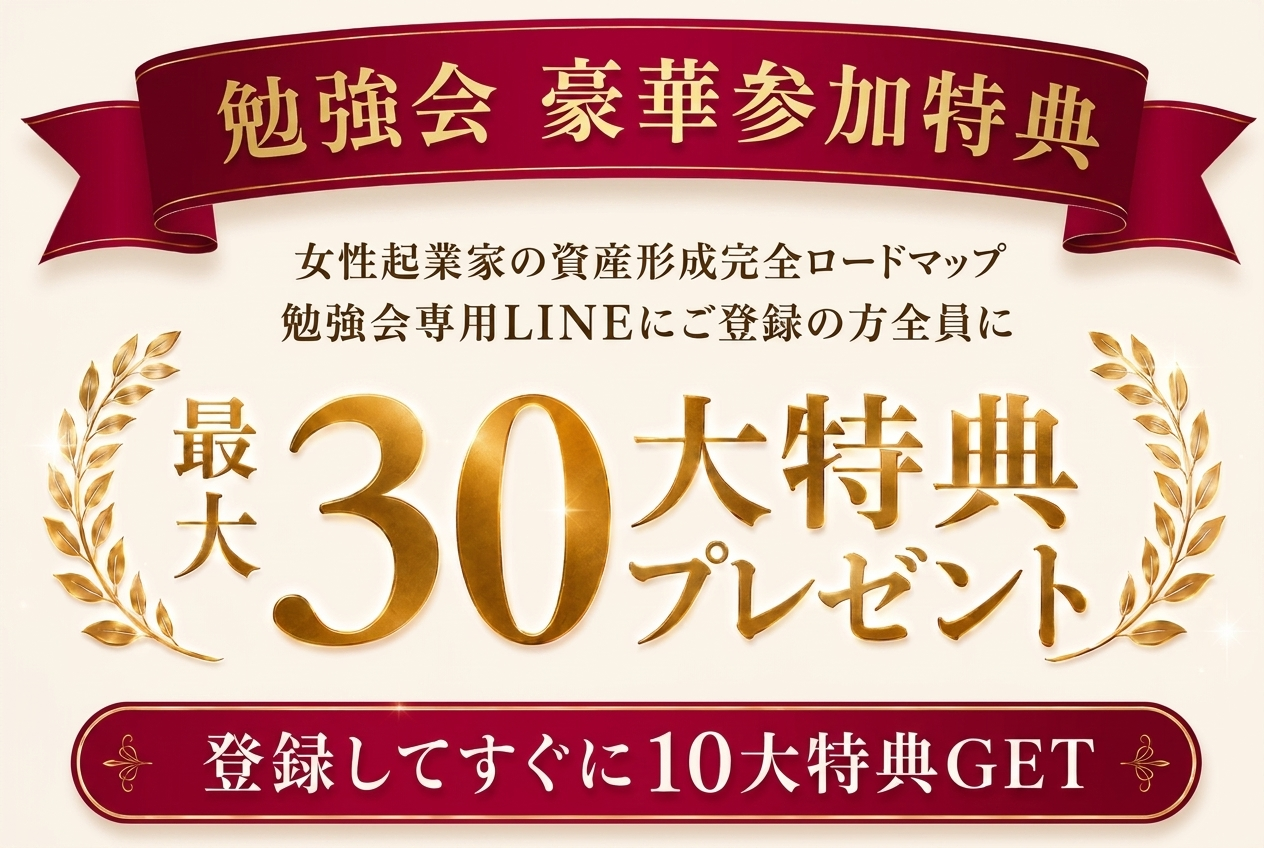
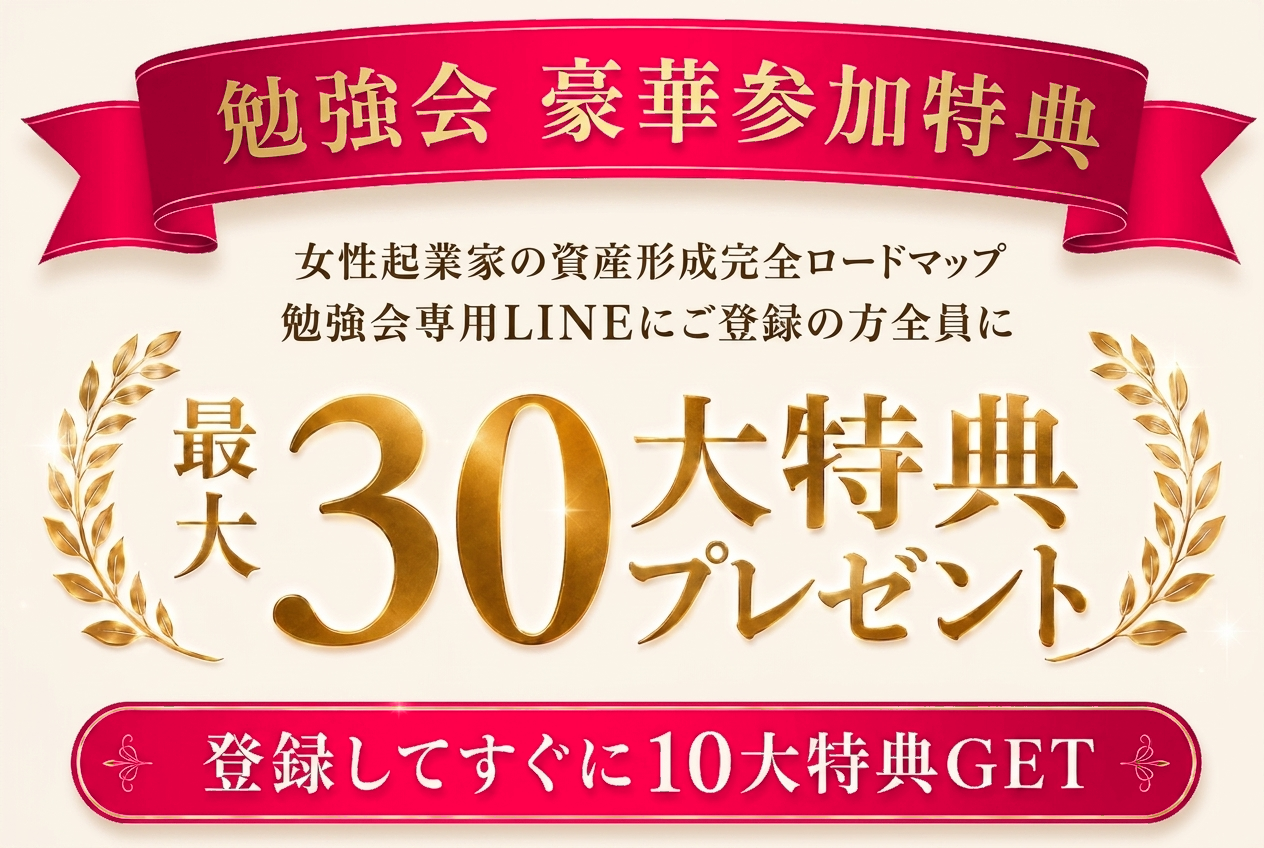
ページ全体の濃い赤をFVのローズピンクに統一（特典リボン/20大特典/監修バンド/プロフィール枠/ビジョンバナー/フッター）

Changed region(s): [[0.0, 0.0, 0.9873, 0.3066], [0.0309, 0.8278, 0.9565, 0.9811]]

diff --git a/index.html b/index.html
@@ -845,7 +845,7 @@ a{text-decoration:none;color:inherit;}
 /* ============================================================
    11. フッター
 ============================================================ */
-footer{background:linear-gradient(180deg,#B01E42,#9C1236);color:#fff;text-align:center;padding:26px 4% 30px;}
+footer{background:linear-gradient(180deg,#E22558,#CC0A40);color:#fff;text-align:center;padding:26px 4% 30px;}
 footer .f-links{display:flex;flex-wrap:wrap;justify-content:center;gap:6px 22px;font-size:13px;font-weight:500;}
 footer .f-links a{text-decoration:underline;text-underline-offset:3px;}
 footer .f-copy{margin-top:14px;font-size:12px;opacity:.95;}
@@ -864,7 +864,7 @@ footer .f-copy{margin-top:14px;font-size:12px;opacity:.95;}
 
   <!-- ============ 2. 特典セクション ============ -->
   <section class="tokuten">
-    <img class="tokuten-head-img" src="images/tokuten-head.png?v=3" alt="勉強会 豪華参加特典｜女性起業家の資産形成完全ロードマップ 勉強会専用LINEにご登録の方全員に 最大30大特典プレゼント 登録してすぐに10大特典GET" width="1586" height="992">
+    <img class="tokuten-head-img" src="images/tokuten-head.png?v=4" alt="勉強会 豪華参加特典｜女性起業家の資産形成完全ロードマップ 勉強会専用LINEにご登録の方全員に 最大30大特典プレゼント 登録してすぐに10大特典GET" width="1586" height="992">
 
     <div class="bk-grid">
       <div class="bk-row">
@@ -886,7 +886,7 @@ footer .f-copy{margin-top:14px;font-size:12px;opacity:.95;}
     </div>
 
     <!-- さらに20大特典 -->
-    <img class="more-box-img" src="images/more-20.png?v=2" alt="さらに 勉強会参加で 20大特典をGET!" width="1740" height="904">
+    <img class="more-box-img" src="images/more-20.png?v=3" alt="さらに 勉強会参加で 20大特典をGET!" width="1740" height="904">
 
     <div class="present-grid">
       <div class="pr-item"><img src="images/line-present-01.png?v=2" alt="月50万円の不労所得が手に入る！不動産投資はじめの一歩ガイド" loading="lazy"></div>
@@ -942,15 +942,15 @@ footer .f-copy{margin-top:14px;font-size:12px;opacity:.95;}
   <!-- ============ 7. 監修者セクション ============ -->
   <section class="kanshu">
     <img class="profile-img" src="images/profile-head.png?v=2" alt="年商1億を資産10億へ。3児のママ経営者が実践する女性起業家の資産形成術。" width="1012" height="278">
-    <img class="profile-img" src="images/kanshu-band.png?v=3" alt="事業と資産形成の両立を実現した 女性起業家 松田リエ監修。年商10億・資産20億超、40室以上の不動産を保有し、M&Aも経験した3児のママ経営者が監修。事業の利益を不動産や資産へ変え、自分が働かなくてもお金が増えていく仕組みを構築。「どう資産を作るか」を、リアルな経験に基づいて体系化した資産形成の無料講座です。" width="1122" height="1402">
-    <img class="profile-img" src="images/rie-profile.png?v=4" alt="松田リエ Rie Matsuda。3児のママ経営者でありながら年商10億・資産20億超を実現／40室以上の不動産を保有し事業利益を資産へ変える仕組みを構築／M&Aも経験しお金を増やす経営を実践／累計受講生4,500名以上／YouTube登録者22万人・総フォロワー70万人超・テレビ出演16回以上／出版17冊・累計43万部突破" width="962" height="1725">
+    <img class="profile-img" src="images/kanshu-band.png?v=4" alt="事業と資産形成の両立を実現した 女性起業家 松田リエ監修。年商10億・資産20億超、40室以上の不動産を保有し、M&Aも経験した3児のママ経営者が監修。事業の利益を不動産や資産へ変え、自分が働かなくてもお金が増えていく仕組みを構築。「どう資産を作るか」を、リアルな経験に基づいて体系化した資産形成の無料講座です。" width="1122" height="1402">
+    <img class="profile-img" src="images/rie-profile.png?v=5" alt="松田リエ Rie Matsuda。3児のママ経営者でありながら年商10億・資産20億超を実現／40室以上の不動産を保有し事業利益を資産へ変える仕組みを構築／M&Aも経験しお金を増やす経営を実践／累計受講生4,500名以上／YouTube登録者22万人・総フォロワー70万人超・テレビ出演16回以上／出版17冊・累計43万部突破" width="962" height="1725">
     <img class="profile-img" src="images/jisseki.png?v=8" alt="実績画像・メディア掲載多数。テレビ出演写真／週刊女性・THE TIME,・美的.com・Yahoo!ニュース・小学館・女子SPA!・毎日新聞・朝日新聞・産経新聞・読売新聞・中日新聞・壮快ほか雑誌掲載多数。累計受講生4,500名以上／YouTube総登録者22万人以上／総フォロワー70万人突破／累計43万部突破／テレビ出演16回以上" width="724" height="1369">
   </section>
 
   <!-- ============ 9-10. ビジョン〜ラスト（画像） ============ -->
   <section class="last">
     <img class="vision-img" src="images/vision-head.png?v=1" alt="「売上を作る力」だけでなく、「資産を作る力」も身につけてほしい。女性起業家が家族との時間も、お金の安心も、どちらも手に入れられる社会をつくりたい。そのために誕生した講座です" width="1086" height="1449">
-    <img class="vision-img" src="images/vision-main.png?v=4" alt="年商1億を資産10億へ。売上を追い続ける女性起業家から、資産が増え続ける女性経営者へ。今こそ、資産形成の第一歩を。女性起業家のための資産形成完全ロードマップ 完全無料 オンライン勉強会を開催中！" width="941" height="749">
+    <img class="vision-img" src="images/vision-main.png?v=5" alt="年商1億を資産10億へ。売上を追い続ける女性起業家から、資産が増え続ける女性経営者へ。今こそ、資産形成の第一歩を。女性起業家のための資産形成完全ロードマップ 完全無料 オンライン勉強会を開催中！" width="941" height="749">
     <div class="last-video" style="position:relative;">
       <img class="vision-img" src="images/last-video.png?v=2" alt="動画講座全3回(100分以上)プレゼント！ビジネスで稼ぐ力だけでなく、資産を作る力、守る力を身につけませんか？" width="1523" height="1033">
       <a class="cta-link" href="https://line.me/R/ti/p/@623nffxx" style="position:absolute;left:3.77%;top:44.9%;width:92.46%;display:block;">
